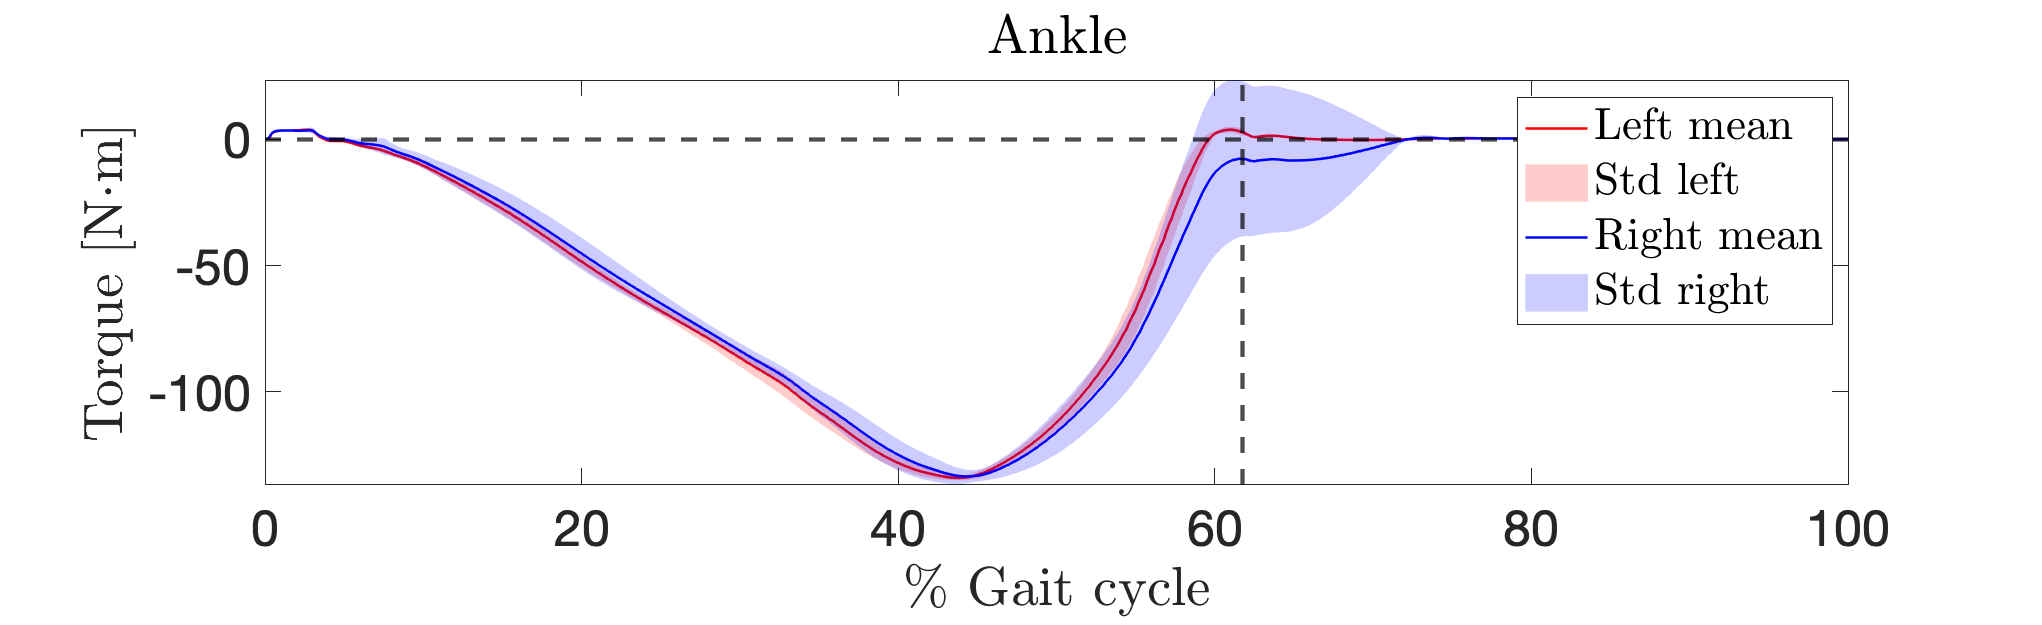
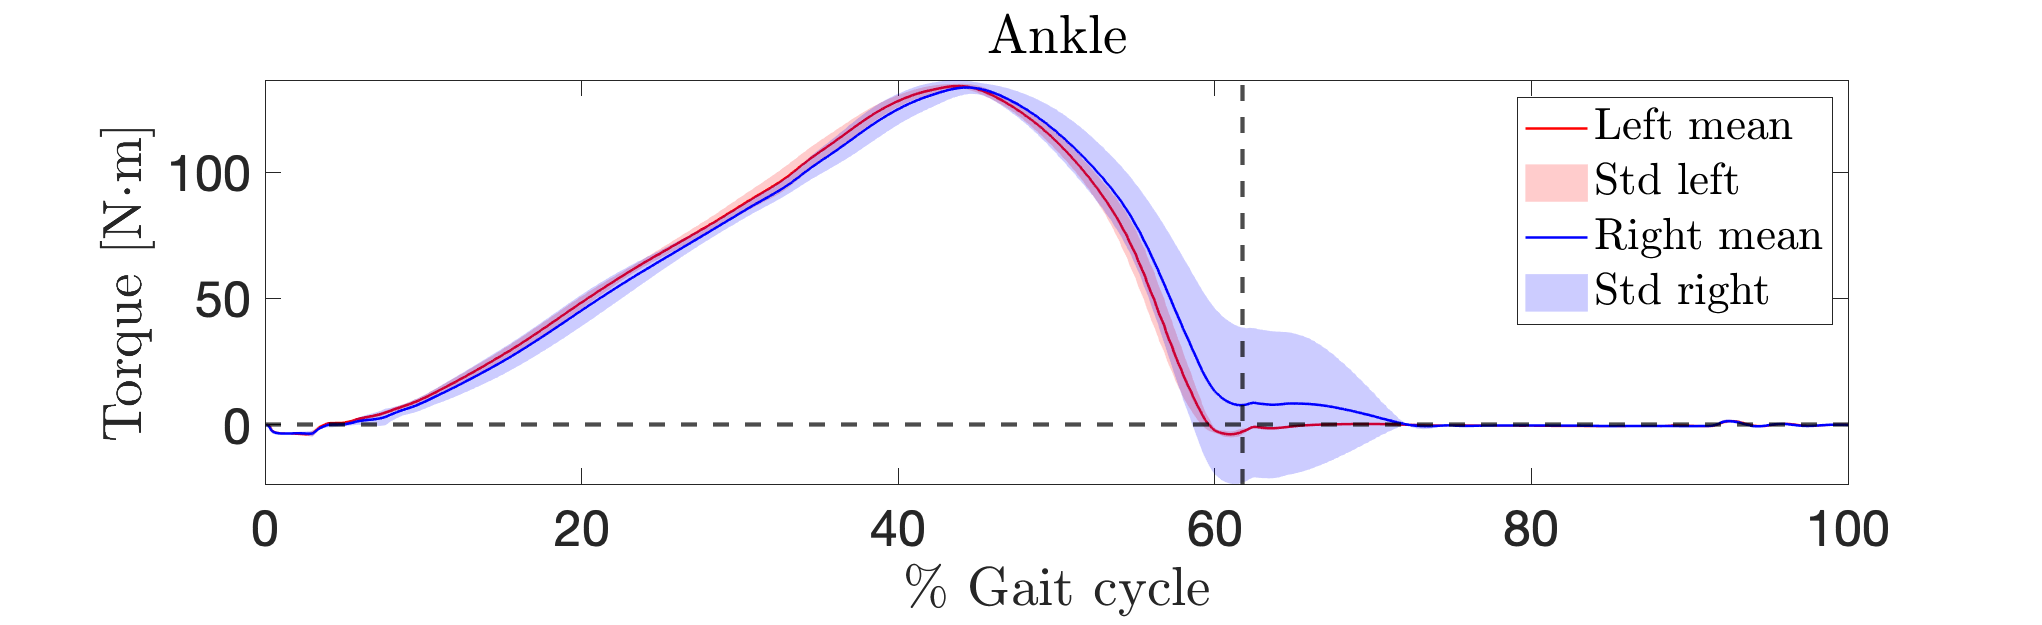
torque reversed

Changed region(s): [[0.0309, 0.1216, 0.8947, 0.7904]]

diff --git a/Mini_project_2/GEYER_Assignment/exercise2_data/ex2.m b/Mini_project_2/GEYER_Assignment/exercise2_data/ex2.m
@@ -101,11 +101,11 @@ for torque = 1:length(labels_torque)
 end
 
 for torque = 1:length(labels_torque)
-    gait_cycles.(['L' labels_torque{torque} 'Torque']).mean_activity = mean(-(gait_cycles.(['L' labels_torque{torque} 'Torque']).divided));
-    gait_cycles.(['L' labels_torque{torque} 'Torque']).std_activity = std(-(gait_cycles.(['L' labels_torque{torque} 'Torque']).divided));
+    gait_cycles.(['L' labels_torque{torque} 'Torque']).mean_activity = mean(gait_cycles.(['L' labels_torque{torque} 'Torque']).divided);
+    gait_cycles.(['L' labels_torque{torque} 'Torque']).std_activity = std(gait_cycles.(['L' labels_torque{torque} 'Torque']).divided);
     
-    gait_cycles.(['R' labels_torque{torque} 'Torque']).mean_activity = mean(-(gait_cycles.(['R' labels_torque{torque} 'Torque']).divided));
-    gait_cycles.(['R' labels_torque{torque} 'Torque']).std_activity = std(-(gait_cycles.(['R' labels_torque{torque} 'Torque']).divided));
+    gait_cycles.(['R' labels_torque{torque} 'Torque']).mean_activity = mean(gait_cycles.(['R' labels_torque{torque} 'Torque']).divided);
+    gait_cycles.(['R' labels_torque{torque} 'Torque']).std_activity = std(gait_cycles.(['R' labels_torque{torque} 'Torque']).divided);
     % To plot
     figure();
     vec_idx_left = 1:1:nbr_points_to_interpolate;
